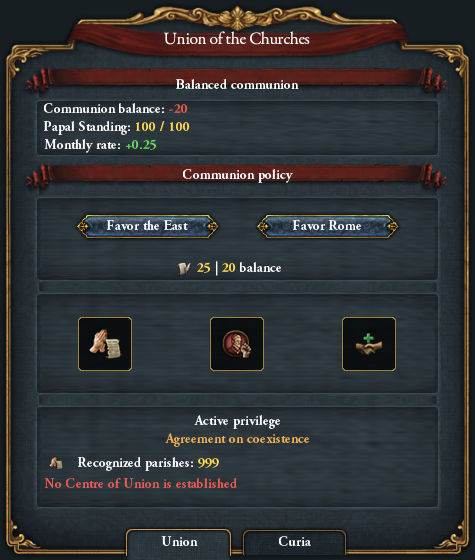
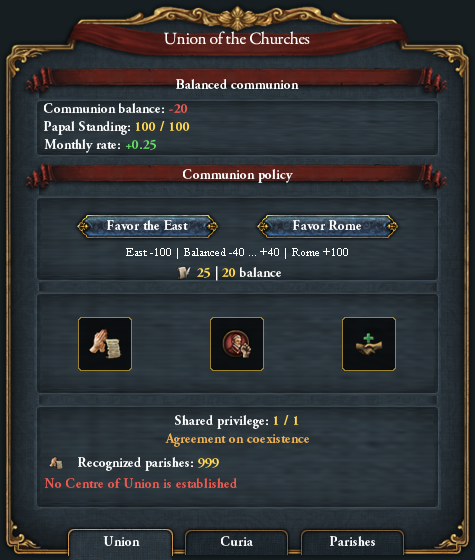
feat(gc_church): Впровадити окремі шляхи Флорентійської та Берестейської уній
Дата увімкнення Греко-Католицької Церкви змінена на 1439 рік, що відображає можливість Флорентійської унії.
Перероблено логіку для розмежування Флорентійського (1439) та Берестейського (1596) шляхів до унії, включно з оновленими перевірками та подіями.
Додано нові панелі "Парафії" та "Шляхи Унії" для деталізованого управління мережею, центром Унії та прогресом переговорів.
Оновлено локалізацію, тести та прев'ю-зображення інтерфейсу.

diff --git a/tools/build_church_localisation.py b/tools/build_church_localisation.py
@@ -77,7 +77,7 @@ DATA={
   "rip_church_reconcile_title": "Reconcile with the eastern patriarchates",
   "rip_church_reconcile_desc": "Costs 100 DIP and 20 Authority. Negotiations last at least five years and conclude at peace with stability 1. Universal claims are renounced; internal discontent lasts ten years.",
   "rip_church_florence_title": "Sustain the Florentine union",
-  "rip_church_florence_desc": "Alternative history, 1444–1501. Pay 200 ADM, 100 DIP and one year's income for five years of negotiations. Requires stability 2, peace and PAP opinion 100. Catholic patrons retain their state religion.",
+  "rip_church_florence_desc": "Alternative history, 1444-1501. The 1439 Florentine union is an earlier, separate path from the 1596 Union of Brest. Pay 200 ADM, 100 DIP and one year's income for five years of negotiations. Requires stability 2, peace and PAP opinion 100. The Eastern hierarchy keeps its rite while entering communion with Rome; Catholic patrons retain their state religion.",
   "rip_church_sponsor_union_title": "Sponsor an Eastern Catholic union",
   "rip_church_sponsor_union_desc": "From 1596, a Catholic crown may support an Eastern union without changing its state religion. Pay 100 ADM, 100 DIP and one year's income. One eligible core parish accepts the founding settlement; the others remain unchanged.",
   "rip_church_ecumenism_title": "Conclude the ecumenical settlement",
@@ -604,6 +604,77 @@ for key in list(DATA):
         DATA[key]='Church authority adjustment: '+str(int(match[4])*5)+'%'
         DATA['desc_'+key]='Offsets the inherited Orthodox authority bonus for this confession. Recalculated in five-point authority bands; the native Orthodox faith is unchanged.'
 
+DATA.update({
+ 'rip_church_gc_course_range':'East -100     |     Balanced -40 ... +40     |     Rome +100',
+ 'rip_church_gc_course_range_tt':'The current orientation controls access to local and Roman privileges. Monthly Standing is +0.10 / +0.25 / +0.50 only while a Catholic PAP exists, is at peace with us and has at least +50 opinion of us.',
+ 'rip_church_gc_privilege_state':'[Root.GetChurchSlotState]\\n§H[Root.GetChurchPrivilege]§!',
+ 'rip_church_gc_curia_privilege':'[Root.GetChurchSlotState]\\n§H[Root.GetChurchPrivilege]§!',
+ 'rip_church_gui_parishes_heading':'Parishes and the Centre of Union',
+ 'rip_church_gui_coexistence':'[Root.GetChurchCoexistenceState]',
+ 'rip_church_gui_coexistence_active':'§GCompact of coexistence active§!',
+ 'rip_church_gui_coexistence_ecumenical':'§GEcumenical settlement recognized§!',
+ 'rip_church_gui_coexistence_local':'Local rites retain their own agreements',
+ 'rip_church_gui_parish_counts':'Recognized Eastern parishes: §Y[Root.rip_church_gui_eastern_parishes.GetValue]§!\\nRecognized Latin parishes: §Y[Root.rip_church_gui_latin_parishes.GetValue]§!\\nLatin consent to conversion: §Y[Root.rip_church_gui_latin_consents.GetValue]§!',
+ 'rip_church_gui_parish_counts_tt':'Counts only our provinces; refreshed on opening this tab and monthly. Recognition preserves the province religion and excludes it from Union conversion. Latin consent is a separate paid permission for gradual conversion. Select an owned province to recognize, revoke or grant consent.',
+ 'rip_church_gui_network_title':'One shared Centre of Union',
+ 'rip_church_gui_network_scope':'[Root.GetChurchNetworkScope]',
+ 'rip_church_gui_network_normal':'Network access: §Yrings 0-2§!\\nLatin consent: §Yring 0 only§!',
+ 'rip_church_gui_network_extended':'Network access: §Yrings 0-4§!\\nLatin consent: §Yextended network§!',
+ 'rip_church_gui_network_none':'No active network\\nEstablish or restore the shared Union seat',
+ 'rip_church_gui_network_scope_tt':'Rings are connected areas, bridged by existing Greek Catholic parishes. The native centre also checks its 150 distance limit. Nearby Eastern targets have higher weights; Latin targets need explicit consent and have lower base priority. Recognized rites are excluded. Occupation suspends the centre while retaining the one world slot.',
+ 'rip_church_gui_found_center':'Establish Union seat',
+ 'rip_church_gui_found_center_tt':'Pay §Y100 ADM and one year of income§! to establish the sole Centre of Union. Requires peace, stability +1, an eligible controlled Greek Catholic core with development 10 and a temple or cathedral. An occupied centre still reserves the world slot. Founding cooldown: twenty years.',
+ 'rip_church_gui_slot_state':'[Root.GetChurchSlotState]',
+ 'rip_church_gui_slot_free':'Shared privilege: §G0 / 1§!',
+ 'rip_church_gui_slot_used':'Shared privilege: §Y1 / 1§!',
+ 'rip_church_gui_slot_patron':'Catholic patron: local GC slot unavailable',
+ 'rip_church_gui_slot_state_tt':'The local synod and all eight Roman petitions share one ten-year slot. A saint or trade charter gives an immediate reward but reserves the slot for ten years. Opening menus never pays for a privilege.',
+ 'rip_church_gui_active_institution':'Active institution\\n§H[Root.GetChurchPrivilege]§!',
+ 'rip_church_gui_synod':'Local synod',
+ 'rip_church_gui_ecumenism':'Ecumenism',
+ 'rip_church_gui_paths_heading':'Paths to the Union',
+ 'rip_church_gui_path_status':'[Root.GetChurchUnionPathState]',
+ 'rip_church_gui_path_orthodox':'Orthodox acceptance of the Union',
+ 'rip_church_gui_path_catholic':'Catholic patronage of Eastern parishes',
+ 'rip_church_gui_path_patron':'§GCatholic patron of the Union§!',
+ 'rip_church_gui_path_identity':'[Root.GetChurchUnionPathIdentity]',
+ 'rip_church_gui_identity_orthodox':'State acceptance changes our confession.\\nExisting parish rites require separate agreements.',
+ 'rip_church_gui_identity_catholic':'Patronage preserves our Catholic confession.\\nAn Eastern founding parish enters the Union.',
+ 'rip_church_gui_paths_title':'Negotiations and settlement',
+ 'rip_church_gui_florence':'Florentine negotiations',
+ 'rip_church_gui_florence_tt':'Begin the early route in 1444-1501: §Y200 ADM, 100 DIP and one year of income§!. Requires peace, stability +2, PAP opinion +100 and an eligible Orthodox core parish. After five years, peace, stability and relations are checked again. Orthodox acceptance changes state faith; Catholic completion grants patronage and one founding parish. One attempt.',
+ 'rip_church_gui_adopt':'Accept the Union',
+ 'rip_church_gui_adopt_tt':'Conclude the later Orthodox state route from 1596, paying §Y100 ADM and 100 DIP§!. Uses exactly the current national decision gates: regional state, enabled faith, peace, stability, Catholic contact or union pressure, and qualifying Orthodox parishes. Catholic countries cannot use this action.',
+ 'rip_church_gui_sponsor':'Sponsor the Union',
+ 'rip_church_gui_sponsor_tt':'From 1596, pay §Y100 ADM, 100 DIP and one year of income§! to support the Union while remaining Catholic. Requires peace, stability +1, PAP without war, and a qualifying Orthodox core parish. One eligible parish becomes Greek Catholic. This does not create a centre for free.',
+ 'rip_church_gui_path_progress':'[Root.GetChurchFlorenceProgress]',
+ 'rip_church_gui_florence_wait':'Florentine negotiations: five-year term underway',
+ 'rip_church_gui_florence_due':'Term complete: settlement conditions must hold',
+ 'rip_church_gui_florence_done':'§GFlorentine settlement concluded§!',
+ 'rip_church_gui_florence_none':'No Florentine negotiations in progress',
+ 'rip_church_gui_patron_network':'Parishes and Union seat',
+ 'rip_church_gui_patron_network_tt':'Open the parish and centre panel. Catholic patrons can establish the centre and grant Latin consent; the Greek Catholic synod and petitions require that state confession.',
+ 'rip_church_gui_province_network':'Rite: [Root.GetChurchRiteFamily]\\nNetwork: [Root.GetChurchProvinceRing]\\n[Root.GetChurchProvinceUnionAccess]',
+ 'rip_church_gui_rite_eastern':'Eastern', 'rip_church_gui_rite_latin':'Latin',
+ 'rip_church_gui_ring_outside':'outside the connected rings',
+ 'rip_church_gui_protected':'§GRecognized rite: protected from Union conversion§!',
+ 'rip_church_gui_access_yes':'Network permits conversion; native range applies',
+ 'rip_church_gui_access_no':'§YUnion conversion conditions are not met§!',
+ 'rip_church_gui_province_network_tt':'Recognition keeps the local confession. Latin consent permits gradual conversion and is not recognition. Rings describe the game network, not historical jurisdiction. Native distance and conversion rules still apply. Refreshes with monthly network maintenance.',
+})
+DATA['rip_church_center_button_tt']='§YCentre and parishes§!\\nOpen the network panel, review recognized rites and Latin consent, or establish the sole Centre of Union.'
+DATA['rip_church_gui_synod_tt']=DATA['rip_church_privileges_button_tt']
+DATA['rip_church_gui_ecumenism_tt']=DATA['rip_church_ecumenism_button_tt']+' The 60 Standing requirement is a threshold; this settlement does not spend it.'
+for i in range(5): DATA['rip_church_gui_ring_'+str(i)]='ring '+str(i)
+for page in ('union','curia','parishes'):
+ for tab in ('union','curia','parishes'):
+  key=f'rip_church_gc_{tab}_tab_{page}'
+  DATA[key]=tab.title()
+  DATA[key+'_tt']={'union':'Communion policy; Catholic patrons return to their Union paths.', 'curia':'Papal relations and paid petitions for a Greek Catholic state.', 'parishes':'Recognized Eastern and Latin rites, consent, centre network and the shared privilege.'}[tab]
+for key in list(DATA):
+ if key.startswith('rip_church_gui_') and not key.endswith('_tt'): DATA.setdefault(key+'_tt',DATA[key])
+for key in ('rip_church_gc_privilege_state_tt','rip_church_gc_curia_privilege_tt'): DATA[key]=DATA['rip_church_gui_slot_state_tt']
+
 ap=argparse.ArgumentParser(); ap.add_argument('--check',action='store_true'); args=ap.parse_args()
 # Generated variable/modifier definitions may add display-only compensation IDs.
 for p in (ROOT/'common/event_modifiers').glob('RIP_church*.txt'):
@@ -677,6 +748,28 @@ for key in ('war','mercy','building','mission'):
         ('NOT = { rip_church_ro_slot_available = yes }','rip_church_icon_no_slot'),
         (f'has_country_flag = rip_church_icon_{key}_used NOT = {{ had_country_flag = {{ flag = rip_church_icon_{key}_used days = 365 }} }}','rip_church_icon_cooldown'),
         ('always = yes','rip_church_icon_can_activate')])
+custom+=defined('GetChurchSlotState',[
+ ('NOT = { religion = greek_catholic }','rip_church_gui_slot_patron'),
+ ('rip_church_gc_has_privilege = yes','rip_church_gui_slot_used'),('always = yes','rip_church_gui_slot_free')])
+custom+=defined('GetChurchCoexistenceState',[
+ ('has_country_flag = rip_church_ecumenical','rip_church_gui_coexistence_ecumenical'),
+ ('has_country_modifier = rip_church_gc_coexistence','rip_church_gui_coexistence_active'),('always = yes','rip_church_gui_coexistence_local')])
+custom+=defined('GetChurchNetworkScope',[
+ ('NOT = { any_province = { rip_church_center_alive = yes } }','rip_church_gui_network_none'),
+ ('event_target:rip_church_union_patron = { has_country_flag = rip_church_ecumenical }','rip_church_gui_network_extended'),('always = yes','rip_church_gui_network_normal')])
+custom+=defined('GetChurchUnionPathState',[
+ ('religion = orthodox','rip_church_gui_path_orthodox'),('has_country_flag = rip_church_supports_union','rip_church_gui_path_patron'),('always = yes','rip_church_gui_path_catholic')])
+custom+=defined('GetChurchUnionPathIdentity',[
+ ('religion = orthodox','rip_church_gui_identity_orthodox'),('always = yes','rip_church_gui_identity_catholic')])
+custom+=defined('GetChurchFlorenceProgress',[
+ ('has_country_flag = rip_church_florentine_union','rip_church_gui_florence_done'),
+ ('has_country_flag = rip_church_florence_pending had_country_flag = { flag = rip_church_florence_pending days = 1825 }','rip_church_gui_florence_due'),
+ ('has_country_flag = rip_church_florence_pending','rip_church_gui_florence_wait'),('always = yes','rip_church_gui_florence_none')])
+custom+=defined('GetChurchRiteFamily',[('religion = catholic','rip_church_gui_rite_latin'),('always = yes','rip_church_gui_rite_eastern')])
+custom+=defined('GetChurchProvinceRing',[(f'has_province_flag = rip_church_union_ring_{i}',f'rip_church_gui_ring_{i}') for i in range(5)]+[('always = yes','rip_church_gui_ring_outside')])
+custom+=defined('GetChurchProvinceUnionAccess',[
+ ('has_province_flag = rip_church_rite_recognized','rip_church_gui_protected'),
+ ('rip_church_union_target = yes','rip_church_gui_access_yes'),('always = yes','rip_church_gui_access_no')])
 outputs={'customizable_localization/rip_church_redesign.txt':custom}
 for lang in ('english','french','german','spanish'):
     outputs[f'localisation/replace/zzzz_RIP_church_redesign_l_{lang}.yml']='\ufeffl_'+lang+':\n'+''.join(f' {k}:0 "{v.replace(chr(34),chr(39))}"\n' for k,v in sorted(DATA.items()))

diff --git a/tools/build_church_gui.py b/tools/build_church_gui.py
@@ -4,12 +4,23 @@ Exact vanilla host overrides are necessary: EU4 attaches scripted children to na
 from pathlib import Path
 import argparse,re,sys
 sys.path.insert(0,str(Path(__file__).resolve().parents[1]/'tests'))
-from clausewitz_testlib import matching_brace,vanilla_root
+from clausewitz_testlib import matching_brace,vanilla_root,named_block
 ROOT=Path(__file__).resolve().parents[1]; GAME=vanilla_root()
 ap=argparse.ArgumentParser(); ap.add_argument('--check',action='store_true'); args=ap.parse_args()
-defs=[]; outputs={}
+defs=[]; outputs={}; text_bindings=set()
+# Derive the GUI transaction from the live decision, including regional and
+# historical gates. Do not maintain a weaker parallel path to state conversion.
+adoption=named_block((ROOT/'decisions/GreekCatholicDecisions.txt').read_text(encoding='utf-8-sig'),'convert_to_greek_catholic_decision')
+def decision_field(key):
+    match=re.search(r'\b'+key+r'\s*=\s*\{',adoption)
+    opening=adoption.index('{',match.start())
+    return adoption[opening+1:matching_brace(adoption,opening)]
+outputs['common/scripted_triggers/rip_church_gui_generated.txt']='# Generated from convert_to_greek_catholic_decision.\nrip_church_gui_can_adopt_union = {\n'+decision_field('potential')+decision_field('allow')+'\n}\n'
+outputs['common/scripted_effects/rip_church_gui_generated.txt']='# Generated guarded GUI transaction; the decision remains authoritative.\nrip_church_gui_adopt_union_effect = {\n if = { limit = { rip_church_gui_can_adopt_union = yes }\n'+decision_field('effect')+'\n }\n}\n'
 def text(name,x,y,w=440,h=42,font='vic_18',align='left'):
-    defs.append(f'custom_text_box = {{ name = {name} potential = {{ always = yes }} tooltip = {name}_tt }}')
+    if name not in text_bindings:
+        defs.append(f'custom_text_box = {{ name = {name} potential = {{ always = yes }} tooltip = {name}_tt }}')
+        text_bindings.add(name)
     return f'''instantTextBoxType = {{
  name = "{name}" scripted = yes position = {{ x={x} y={y} }} font = "{font}"
  text = "{name}" maxWidth = {w} maxHeight = {h} format = {align}
@@ -36,10 +47,12 @@ def shield(name,x,y,target,potential,sprite):
 }}'''
 
 def gc_tabs(page):
-    return (button('rip_church_gc_union_tab_'+page,121,524,'religion = greek_catholic',
+    return (button('rip_church_gc_union_tab_'+page,63,524,'OR = { religion = greek_catholic religion = catholic }',
                    'rip_church_gc_open_union_effect = yes',sprite='GFX_tab_small_116',frame=2 if page=='union' else 1)+
-            button('rip_church_gc_curia_tab_'+page,237,524,'religion = greek_catholic',
-                   'rip_church_gc_open_curia_effect = yes',sprite='GFX_tab_small_116',frame=2 if page=='curia' else 1))
+            button('rip_church_gc_curia_tab_'+page,179,524,'religion = greek_catholic',
+                   'rip_church_gc_open_curia_effect = yes',sprite='GFX_tab_small_116',frame=2 if page=='curia' else 1)+
+            button('rip_church_gc_parishes_tab_'+page,295,524,'rip_church_union_supporter = yes',
+                   'rip_church_gui_open_parishes_effect = yes',sprite='GFX_tab_small_116',frame=2 if page=='parishes' else 1))
 
 def art(name,sprite,x,y,scale=1):
     return f'iconType = {{ name = "{name}" spriteType = "{sprite}" position = {{ x={x} y={y} }} scale = {scale} alwaystransparent = yes }}'
@@ -55,7 +68,7 @@ def panel(name,condition,body,x=540,y=8,clean=False):
     background = ('GFX_rip_church_union_frame' if clean else 'GFX_country_religion_view_bg')
     scale = '' if clean else 'scale = 0.86'
     hit_test = 'alwaystransparent = no' if clean else ''
-    native_church = name in ('rip_church_ro_panel','rip_church_gc_panel','rip_church_gc_curia_panel')
+    native_church = name in ('rip_church_ro_panel','rip_church_gc_panel','rip_church_gc_curia_panel','rip_church_gc_parishes_panel','rip_church_union_paths_panel')
     if native_church:
         background='GFX_rip_church_ro_frame'
         scale='scale = 0.782537'
@@ -97,13 +110,14 @@ gc+=button('rip_church_east_button',73,211,
 gc+=button('rip_church_rome_button',253,211,
            'rip_church_can_shift_communion = yes NOT = { check_variable = { which = rip_church_communion value = 100 } }',
            'rip_church_gc_shift_rome_effect = yes',sprite='button_type_1')
-gc+=art('rip_church_gc_adm_icon','GFX_icon_powers_administrative',173,258,0.7)
-gc+=text('rip_church_gc_policy_cost',197,259,w=150,h=18)
+gc+=text('rip_church_gc_course_range',44,245,w=387,h=14,font='Main_14',align='center')
+gc+=art('rip_church_gc_adm_icon','GFX_icon_powers_administrative',173,262,0.7)
+gc+=text('rip_church_gc_policy_cost',197,264,w=150,h=18)
 # Reuse the RO panel's native framed illustrations and compact buttons.
 # These are action shortcuts, so they deliberately have no policy-active glow.
 for i,(key,name,trigger,effect) in enumerate((
     ('privileges','rip_church_privileges_button','religion = greek_catholic','rip_church_gc_open_synod_effect = yes'),
-    ('center','rip_church_center_button','rip_church_can_found_center = yes','rip_church_found_center_effect = yes'),
+    ('center','rip_church_center_button','rip_church_union_supporter = yes','rip_church_gui_open_parishes_effect = yes'),
     ('ecumenism','rip_church_ecumenism_button','rip_church_can_ecumenism = yes','rip_church_achieve_ecumenism_effect = yes'),
 )):
     x=53+i*132
@@ -135,9 +149,35 @@ curia+=button('rip_church_gc_donate_button',64,448,'rip_church_gc_can_donate = y
               'rip_church_gc_donate_effect = yes',sprite='GFX_buy_indulgence_button',label=False)
 curia+=text('rip_church_gc_donation_cost',133,441,w=300,h=54)
 curia+=gc_tabs('curia')
+parishes=inset('parishes_counts',34,98,407,64)+inset('parishes_network',34,195,407,151)+inset('parishes_privilege',34,355,407,151)
+parishes+=text('rip_church_gui_parishes_heading',28,28,w=419,h=26,font='vic_22',align='center')
+parishes+=text('rip_church_gui_coexistence',28,76,w=419,h=20,align='center')
+parishes+=text('rip_church_gui_parish_counts',44,103,w=387,h=54)
+parishes+=text('rip_church_gui_network_title',28,166,w=419,h=22,align='center')
+parishes+=text('rip_church_gc_center_state',44,203,w=387,h=36)
+parishes+=text('rip_church_gui_network_scope',44,245,w=387,h=36)
+parishes+=button('rip_church_gui_found_center',125,300,'rip_church_can_found_center = yes','rip_church_found_center_effect = yes')
+parishes+=text('rip_church_gui_slot_state',44,365,w=387,h=36,align='center')
+parishes+=text('rip_church_gui_active_institution',44,404,w=387,h=36,align='center')
+parishes+=button('rip_church_gui_synod',54,459,'religion = greek_catholic','rip_church_gc_open_synod_effect = yes',sprite='button_type_1')
+parishes+=button('rip_church_gui_ecumenism',272,459,'rip_church_can_ecumenism = yes','rip_church_achieve_ecumenism_effect = yes',sprite='button_type_1')
+parishes+=gc_tabs('parishes')
+paths=inset('paths_status',34,98,407,64)+inset('paths_actions',34,195,407,195)+inset('paths_patron',34,402,407,108)
+paths+=text('rip_church_gui_paths_heading',28,28,w=419,h=26,font='vic_22',align='center')
+paths+=text('rip_church_gui_path_status',28,76,w=419,h=20,align='center')
+paths+=text('rip_church_gui_path_identity',44,104,w=387,h=54)
+paths+=text('rip_church_gui_paths_title',28,166,w=419,h=22,align='center')
+paths+=button('rip_church_gui_florence',125,204,'rip_church_can_begin_florence = yes','rip_church_begin_florence_effect = yes')
+paths+=button('rip_church_gui_adopt',125,253,'rip_church_gui_can_adopt_union = yes','rip_church_gui_adopt_union_effect = yes')
+paths+=button('rip_church_gui_sponsor',125,302,'rip_church_can_sponsor_union = yes','rip_church_sponsor_union_effect = yes')
+paths+=text('rip_church_gui_path_progress',44,350,w=387,h=36,align='center')
+paths+=text('rip_church_gc_center_state',44,412,w=387,h=36)
+paths+=button('rip_church_gui_patron_network',125,463,'rip_church_union_supporter = yes','rip_church_gui_open_parishes_effect = yes')
 religion_panels=(panel('rip_church_ro_panel','religion = russian_orthodox',ro,clean=True)+'\n'+
-                panel('rip_church_gc_panel','religion = greek_catholic NOT = { has_country_flag = rip_church_gc_curia_view }',gc,clean=True)+'\n'+
-                panel('rip_church_gc_curia_panel','religion = greek_catholic has_country_flag = rip_church_gc_curia_view',curia,clean=True))
+                panel('rip_church_gc_panel','religion = greek_catholic NOT = { has_country_flag = rip_church_gc_curia_view } NOT = { has_country_flag = rip_church_gui_parishes_view }',gc,clean=True)+'\n'+
+                panel('rip_church_gc_curia_panel','religion = greek_catholic has_country_flag = rip_church_gc_curia_view NOT = { has_country_flag = rip_church_gui_parishes_view }',curia,clean=True)+'\n'+
+                panel('rip_church_gc_parishes_panel','rip_church_union_supporter = yes has_country_flag = rip_church_gui_parishes_view',parishes,clean=True)+'\n'+
+                panel('rip_church_union_paths_panel','OR = { religion = orthodox religion = catholic } NOT = { AND = { rip_church_union_supporter = yes has_country_flag = rip_church_gui_parishes_view } }',paths,clean=True))
 outputs['interface/RIP_church_panels.gfx']='spriteTypes = {\n'+'\n'.join(insets)+'''
  spriteType = {
   name = "GFX_rip_church_ro_frame"
@@ -163,6 +203,7 @@ province+=button('rip_church_latin_consent_button',18,210,
                  'owned_by = FROM religion = catholic controlled_by = owner NOT = { has_province_flag = rip_church_rite_recognized } NOT = { has_province_flag = rip_church_latin_consent } owner = { rip_church_union_supporter = yes adm_power = 25 }',
                  'rip_church_latin_consent_effect = yes')
 province+=text('rip_church_rite_help',18,262,w=440,h=120,font='Main_14')
+province+=text('rip_church_gui_province_network',18,390,w=440,h=90,font='Main_14')
 prov_panel=panel('rip_church_rite_panel','owned_by = FROM FROM = { rip_church_union_supporter = yes } OR = { religion = orthodox religion = russian_orthodox religion = catholic }',province,x=480,y=0)
 
 # Retain native widget names and parents for the engine and old saves.

diff --git a/tests/check_religion_settlement.py b/tests/check_religion_settlement.py
@@ -6,7 +6,7 @@ contract test, not the EU4 engine, a save loader or a campaign balance simulator
 from copy import deepcopy
 import re
 
-from clausewitz_testlib import ROOT, read, named_block, normalized, vanilla_root
+from clausewitz_testlib import ROOT, read, named_block, normalized, vanilla_root, keyed_blocks
 
 
 def parse(text):
@@ -109,7 +109,7 @@ class World:
             return scope['religion'] == religion
         if key == 'uses_patriarch_authority':
             return (scope['religion'] in ('orthodox', 'russian_orthodox', 'greek_catholic')) == (value == 'yes')
-        if key == 'is_religion_enabled': return self.year >= (1596 if value == 'greek_catholic' else 1448)
+        if key == 'is_religion_enabled': return self.year >= (1439 if value == 'greek_catholic' else 1448)
         if key == 'exists': return value in self.countries
         if key == 'has_owner': return (scope.get('owner') in self.countries) == (value == 'yes')
         if key == 'has_dlc': return value in scope['dlcs']
@@ -261,9 +261,10 @@ def run_cases():
                 cases += 1
     # Moscow council fuel and the sole global centre are executed in check_church_redesign.
     # A stale Brest response cannot change faith after PAP disappears or a prior signature.
-    for update in ('valid', 'no_pope', 'war_pope', 'signed', 'wrong_faith', 'poor'):
+    for update in ('valid', 'before_brest', 'no_pope', 'war_pope', 'signed', 'wrong_faith', 'poor'):
         w, c = fixture()
         c['flags']['pursuing_uniate_union'] = 0
+        if update == 'before_brest': w.year = 1595
         if update == 'no_pope': del w.countries['PAP']
         if update == 'war_pope': c['wars'].add('PAP')
         if update == 'signed': c['flags']['union_of_brest_happened'] = 0
@@ -349,8 +350,61 @@ def contracts():
         assert 'rip_faith_initialize_hierarchy_effect = yes' in named_block(read('common/religions/' + filename + '.txt'), 'on_convert')
     assert 'rip_faith_adopt_union_effect = yes' in read('common/scripted_effects/rip_uniate_crown_effects.txt')
     assert 'rip_faith_adopt_muscovite_church_effect = yes' in read('common/scripted_effects/russian_orthodox_effects.txt')
+    crown = named_block(read('common/scripted_effects/rip_uniate_crown_effects.txt'), 'rip_ucr_take_the_church_effect')
+    assert 'set_country_flag = pursuing_uniate_union' not in crown
+    assert 'set_country_flag = union_of_brest_happened' not in crown
     whitelist = named_block(read('common/religions/zz_greek_catholic.txt'), 'allowed_center_conversion')
     assert 'catholic' in whitelist and 'orthodox' in whitelist and 'russian_orthodox' in whitelist
+    gc = named_block(read('common/religions/zz_greek_catholic.txt'), 'greek_catholic')
+    assert re.search(r'(?m)^\s*date\s*=\s*1439\.7\.6\s*$', gc)
+    assert re.search(r'(?m)^\s*has_patriarchs\s*=\s*yes\s*$', gc)
+    assert re.search(r'(?m)^\s*orthodox_icons\s*=\s*\{', gc)
+    assert not re.search(r'(?m)^\s*hre_heretic_religion\s*=', gc)
+    # Internal hierarchy (native PA), Rome (two scripted country resources),
+    # and local rite (province agreement) remain independent data systems.
+    union_triggers = read('common/scripted_triggers/rip_church_union_triggers.txt')
+    union_effects = read('common/scripted_effects/rip_church_union_effects.txt')
+    assert 'which = rip_church_communion' in union_effects
+    assert 'which = rip_church_papal_standing' in union_effects
+    assert 'set_province_flag = rip_church_rite_recognized' in union_effects
+    assert 'owner = { religion = greek_catholic }' in named_block(union_triggers, 'rip_church_can_recognize_rite')
+    brest = named_block(read('decisions/GreekCatholicDecisions.txt'), 'convert_to_greek_catholic_decision')
+    assert 'is_year = 1596' in named_block(brest, 'potential')
+    brest_effect = named_block(brest, 'effect')
+    assert 'set_country_flag = pursuing_uniate_union' in brest_effect
+    assert 'set_country_flag = union_of_brest_happened' in brest_effect
+    brest_event = read('events/UniateChurch.txt')
+    assert brest_event.count('trigger = { rip_uc_can_accept_brest_trigger = yes }') == 2
+    assert brest_event.count('set_country_flag = union_of_brest_happened') == 2
+    khmelnytsky = next(block for _, block in keyed_blocks(read('events/KhmelnytskyUprisings.txt'), 'country_event')
+                       if 'id = khmelnytsky_events.7' in block)
+    assert 'is_year = 1596' in named_block(khmelnytsky, 'trigger')
+    west_events = read('events/WestUkraineHistory.txt')
+    west_union = next(block for _, block in keyed_blocks(west_events, 'country_event')
+                      if 'id = west_ukraine_history.3' in block)
+    assert 'is_year = 1596' in named_block(west_union, 'trigger')
+    west_accept = next(block for _, block in keyed_blocks(west_union, 'option')
+                       if 'name = west_ukraine_history.3.a' in block)
+    assert 'rip_faith_adopt_union_effect = yes' in west_accept
+    assert 'set_country_flag = union_of_brest_happened' in west_accept
+    assert 'provincial_uniate_resistance' in west_accept
+    assert 'change_religion = catholic' not in west_accept
+    west_resistance = named_block(west_accept, 'every_owned_province')
+    assert 'religion = orthodox' in named_block(west_resistance, 'limit')
+    assert 'change_religion' not in west_resistance
+    west_dispute = next(block for _, block in keyed_blocks(west_events, 'country_event')
+                        if 'id = west_ukraine_history.4' in block)
+    west_press = next(block for _, block in keyed_blocks(west_dispute, 'option')
+                      if 'name = west_ukraine_history.4.a' in block)
+    assert 'rip_church_historical_rome_effect = yes' in west_press
+    assert 'add_papal_influence' not in west_press
+    assert 'change_religion' not in west_press
+    assert 'has_province_flag = rip_church_rite_recognized' in named_block(west_dispute, 'trigger')
+    hierarchy_init = named_block(read('common/scripted_effects/rip_religion_settlement_effects.txt'), 'rip_faith_initialize_hierarchy_effect')
+    assert 'set_country_flag = pursuing_uniate_union' not in hierarchy_init
+    assert 'set_country_flag = union_of_brest_happened' not in hierarchy_init
+    brest_gate = dict(parse(read('common/scripted_triggers/rip_religion_settlement_triggers.txt')))['rip_uc_can_accept_brest_trigger']
+    assert ('is_year', '1596') in brest_gate
     profile = normalized(read('common/religious_conversions/zz_RIP_greek_catholic.txt'))
     assert 'rip_church_union_target = yes' in profile
     events = read('events/OrthodoxCrusade.txt')

diff --git a/tools/preview_church_gui.py b/tools/preview_church_gui.py
@@ -8,8 +8,10 @@ sys.path.insert(0,str(Path(__file__).resolve().parents[1]/'tests'))
 from clausewitz_testlib import ROOT, vanilla_root, keyed_blocks
 from church_testlib import parse
 GAME=vanilla_root()
-ap=argparse.ArgumentParser(); group=ap.add_mutually_exclusive_group(); group.add_argument('--ro',action='store_true'); group.add_argument('--curia',action='store_true'); args=ap.parse_args()
-branch='ro' if args.ro else 'gc_curia' if args.curia else 'gc'
+ap=argparse.ArgumentParser(); group=ap.add_mutually_exclusive_group()
+for option in ('ro','curia','parishes','paths','province'): group.add_argument('--'+option,action='store_true')
+args=ap.parse_args()
+branch='ro' if args.ro else 'gc_curia' if args.curia else 'gc_parishes' if args.parishes else 'union_paths' if args.paths else 'rite' if args.province else 'gc'
 loc=dict(re.findall(r'^\s+(\w+):0 "(.*)"$',(ROOT/'localisation/replace/zzzz_RIP_church_redesign_l_english.yml').read_text(encoding='utf-8-sig'),re.M))
 sample={'Root.GetChurchGCOrientation':'Balanced communion', 'Root.rip_church_communion.GetValue':'-20',
  'Root.GetChurchBalanceValue':'§R-20§!',
@@ -25,6 +27,18 @@ sample.update({'Root.GetChurchCuriaStatus':'Roman support requires better relati
  'Root.GetChurchPapalOpinion':'§R-10§!', 'Root.GetChurchCuriaRate':'§Y+0.00§!',
  'Root.GetChurchDonationState':'Available again five years after the last donation',
  'Root.GetChurchLocalInstitution':'Agreement on coexistence'})
+sample.update({'Root.GetChurchSlotState':'Shared privilege: §Y1 / 1§!',
+ 'Root.GetChurchCoexistenceState':'§GCompact of coexistence active§!',
+ 'Root.rip_church_gui_eastern_parishes.GetValue':'999',
+ 'Root.rip_church_gui_latin_parishes.GetValue':'999',
+ 'Root.rip_church_gui_latin_consents.GetValue':'999',
+ 'Root.GetChurchNetworkScope':'Network access: §Yrings 0-4§!\\nLatin consent: §Yextended network§!',
+ 'Root.GetChurchUnionPathState':'Catholic patronage of Eastern parishes',
+ 'Root.GetChurchUnionPathIdentity':'Patronage preserves our Catholic confession.\\nAn Eastern founding parish enters the Union.',
+ 'Root.GetChurchFlorenceProgress':'Term complete: settlement conditions must hold',
+ 'Root.GetChurchRiteStatus':'The Latin parish has consented to gradual Byzantine integration.',
+ 'Root.GetChurchRiteFamily':'Latin', 'Root.GetChurchProvinceRing':'ring 4',
+ 'Root.GetChurchProvinceUnionAccess':'Network permits conversion; native range applies'})
 def resolve(key):
     return re.sub(r'\[([^]]+)\]',lambda m:sample[m[1]],loc[key]).replace('\\n','\n')
 def asset(path):
@@ -76,12 +90,12 @@ def draw_text(canvas,s,x,y,w,h,name,center=False):
             if c['width'] and c['height']: canvas.alpha_composite(glyph,(cursor+c['xoffset'],y+c['yoffset']))
             cursor+=c['xadvance']
         y+=line_height
-source=(ROOT/'interface/countryreligionview.gui').read_text()
-panel=next(block for _,block in keyed_blocks(source,'windowType') if re.search(r'name\s*=\s*"rip_church_'+branch+r'_panel"',block) and 'name = "countryreligionview"' not in block)
+source=(ROOT/('interface/provinceview.gui' if args.province else 'interface/countryreligionview.gui')).read_text()
+panel=next(block for _,block in keyed_blocks(source,'windowType') if re.search(r'\bname\s*=\s*"([^"]+)"',block)[1]=='rip_church_'+branch+'_panel')
 entries=dict(parse(panel))['windowType']
 dimensions=dict(dict(entries)['size']); panel_w,panel_h=int(dimensions['x']),int(dimensions['y'])
 canvas=Image.new('RGBA',(panel_w,panel_h),(22,30,33,255))
-sprite_paths={}
+sprite_paths={'GFX_country_religion_view_bg':'gfx/interface/defender_of_the_faith/country_religion_view_bg.dds'}
 tiles={}
 for _,block in keyed_blocks((ROOT/'interface/RIP_church_panels.gfx').read_text(),'corneredTileSpriteType'):
     d=dict(dict(parse(block))['corneredTileSpriteType']); dims=dict(d['size'])

diff --git a/tests/check_church_redesign.py b/tests/check_church_redesign.py
@@ -158,10 +158,17 @@ for religion in ('orthodox','catholic'):
     assert sum(x['religion']=='greek_catholic' for x in w.provinces.values())==1
     assert q['religion']=='orthodox'
     assert ('rip_church_supports_union' in c['flags'])==(religion=='catholic')
+    assert 'rip_church_florentine_union' in c['flags']
+    assert 'union_of_brest_happened' not in c['flags']
+    assert 'pursuing_uniate_union' not in c['flags']
     snapshot=deepcopy(w.provinces); w.run('rip_church_complete_florence_effect',c); assert w.provinces==snapshot; checked()
 for year,eligible in [(1443,False),(1444,True),(1501,True),(1502,False)]:
     w,c,p=fixture('orthodox'); w.year=year
     assert w.gate(TRIGGERS['rip_church_can_begin_florence'],c)==eligible; checked()
+for year,enabled in [(1438,False),(1439,True),(1444,True),(1595,True)]:
+    w,c,p=fixture('orthodox'); w.year=year
+    assert w.condition('is_religion_enabled','greek_catholic',c,c,None)==enabled
+    checked()
 
 # Ecumenical eligibility includes every prerequisite and restarts after coercion.
 w,c,p=fixture('greek_catholic'); p['religion']='orthodox'; p['flags']['rip_church_rite_recognized']=0

diff --git a/tests/church_testlib.py b/tests/church_testlib.py
@@ -122,7 +122,7 @@ class World(SettlementWorld):
         if key == 'num_of_owned_provinces_with':
             fields=dict(value)
             return sum(self.gate([(k,v) for k,v in value if k!='value'],p,root,scope) for p in self.collection('any_owned_province',scope)) >= float(fields['value'])
-        if key == 'is_religion_enabled': return self.year >= 1596 or value in getattr(self,'enabled',set())
+        if key == 'is_religion_enabled': return self.year >= (1439 if value == 'greek_catholic' else 1448) or value in getattr(self,'enabled',set())
         return super().condition(key,value,scope,root,prev)
 
     def execute(self, items, scope, root=None, prev=None):
